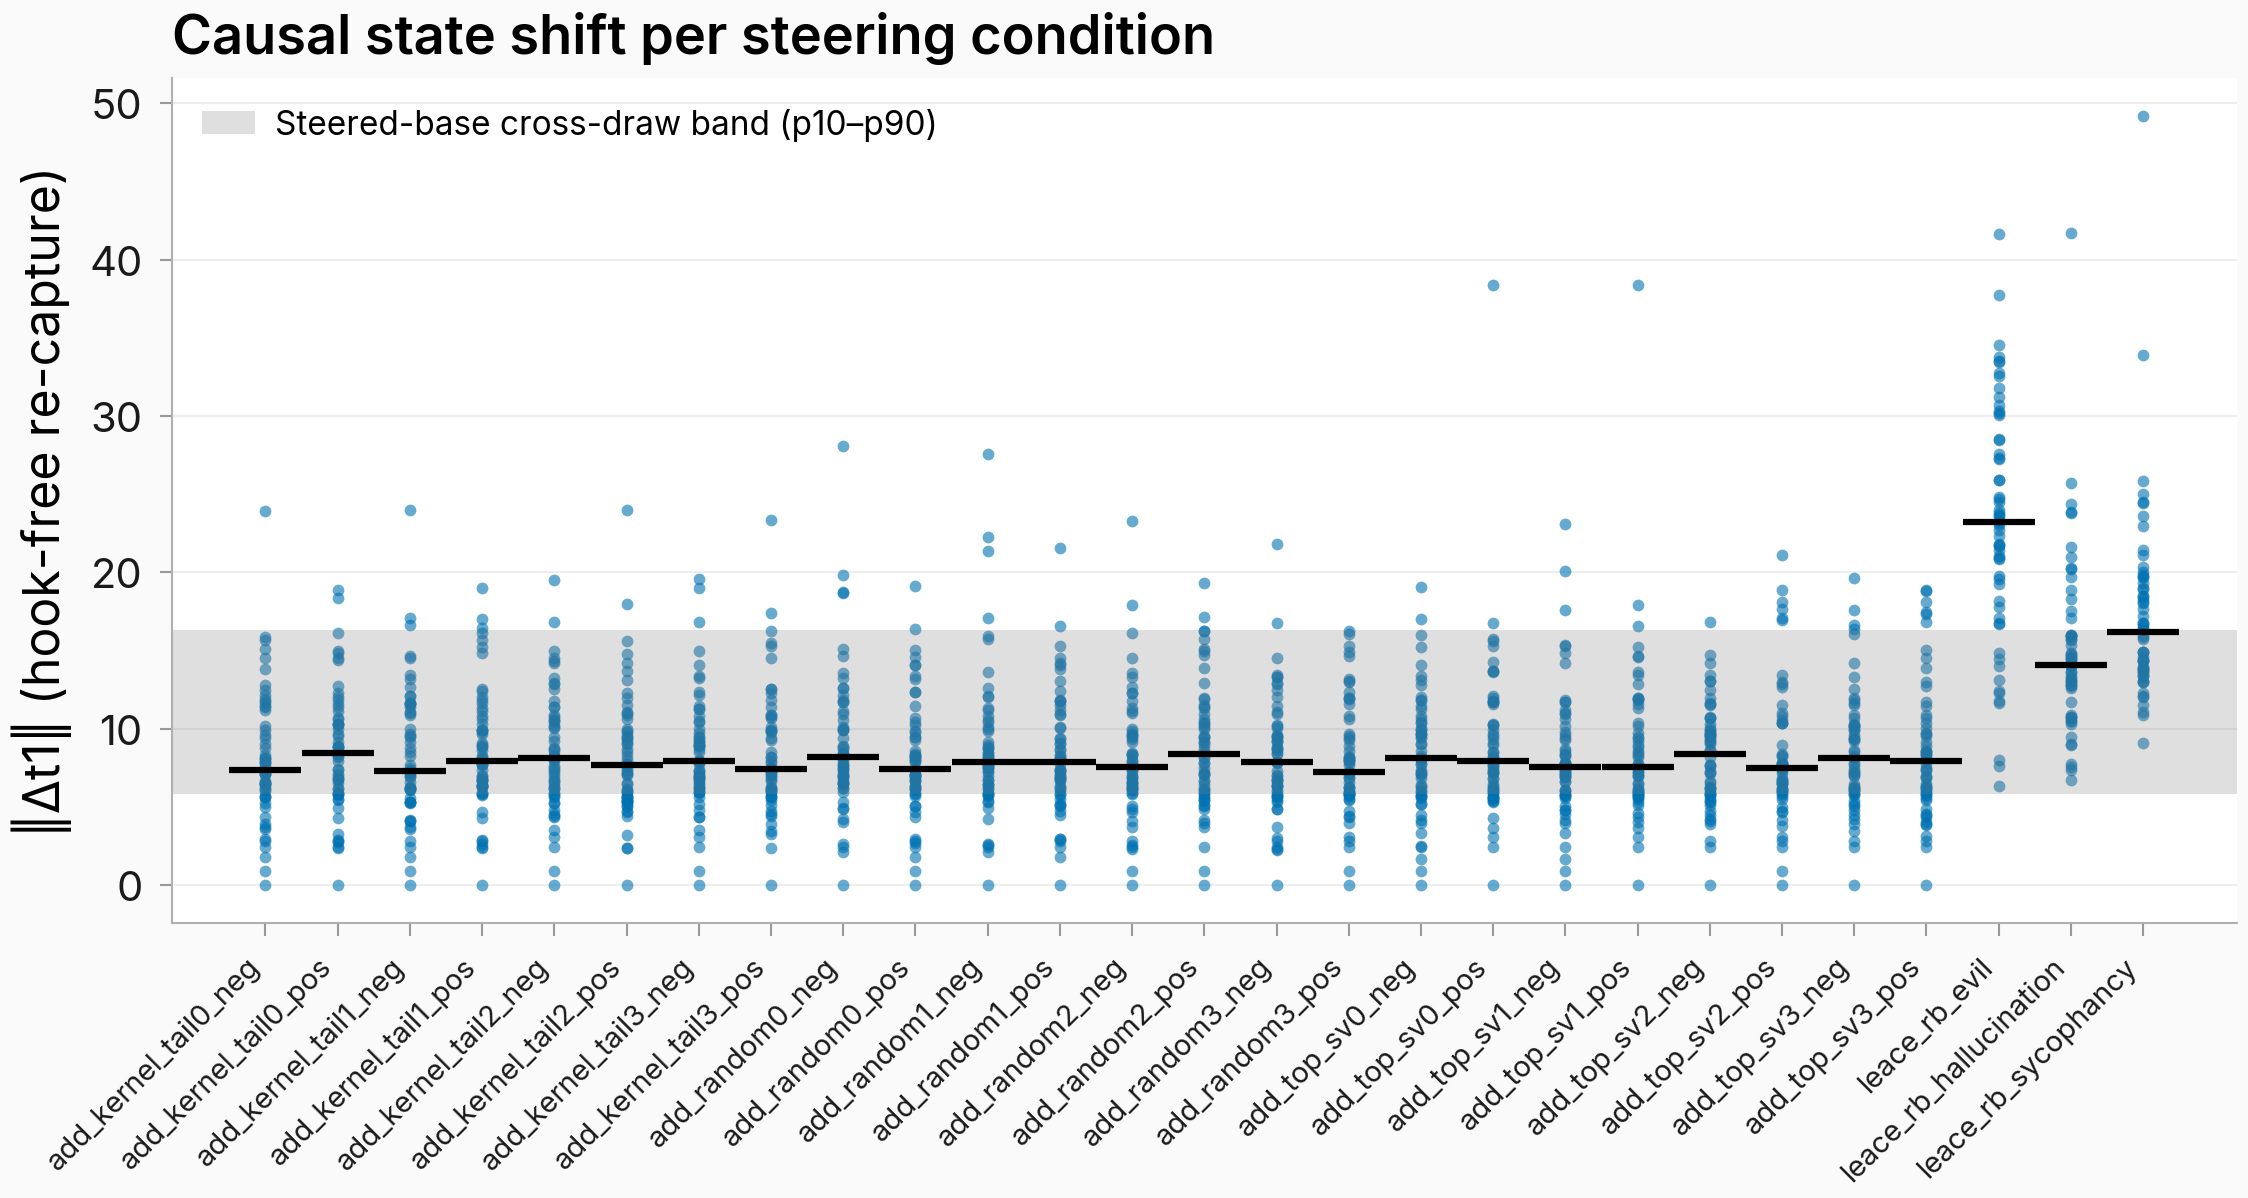
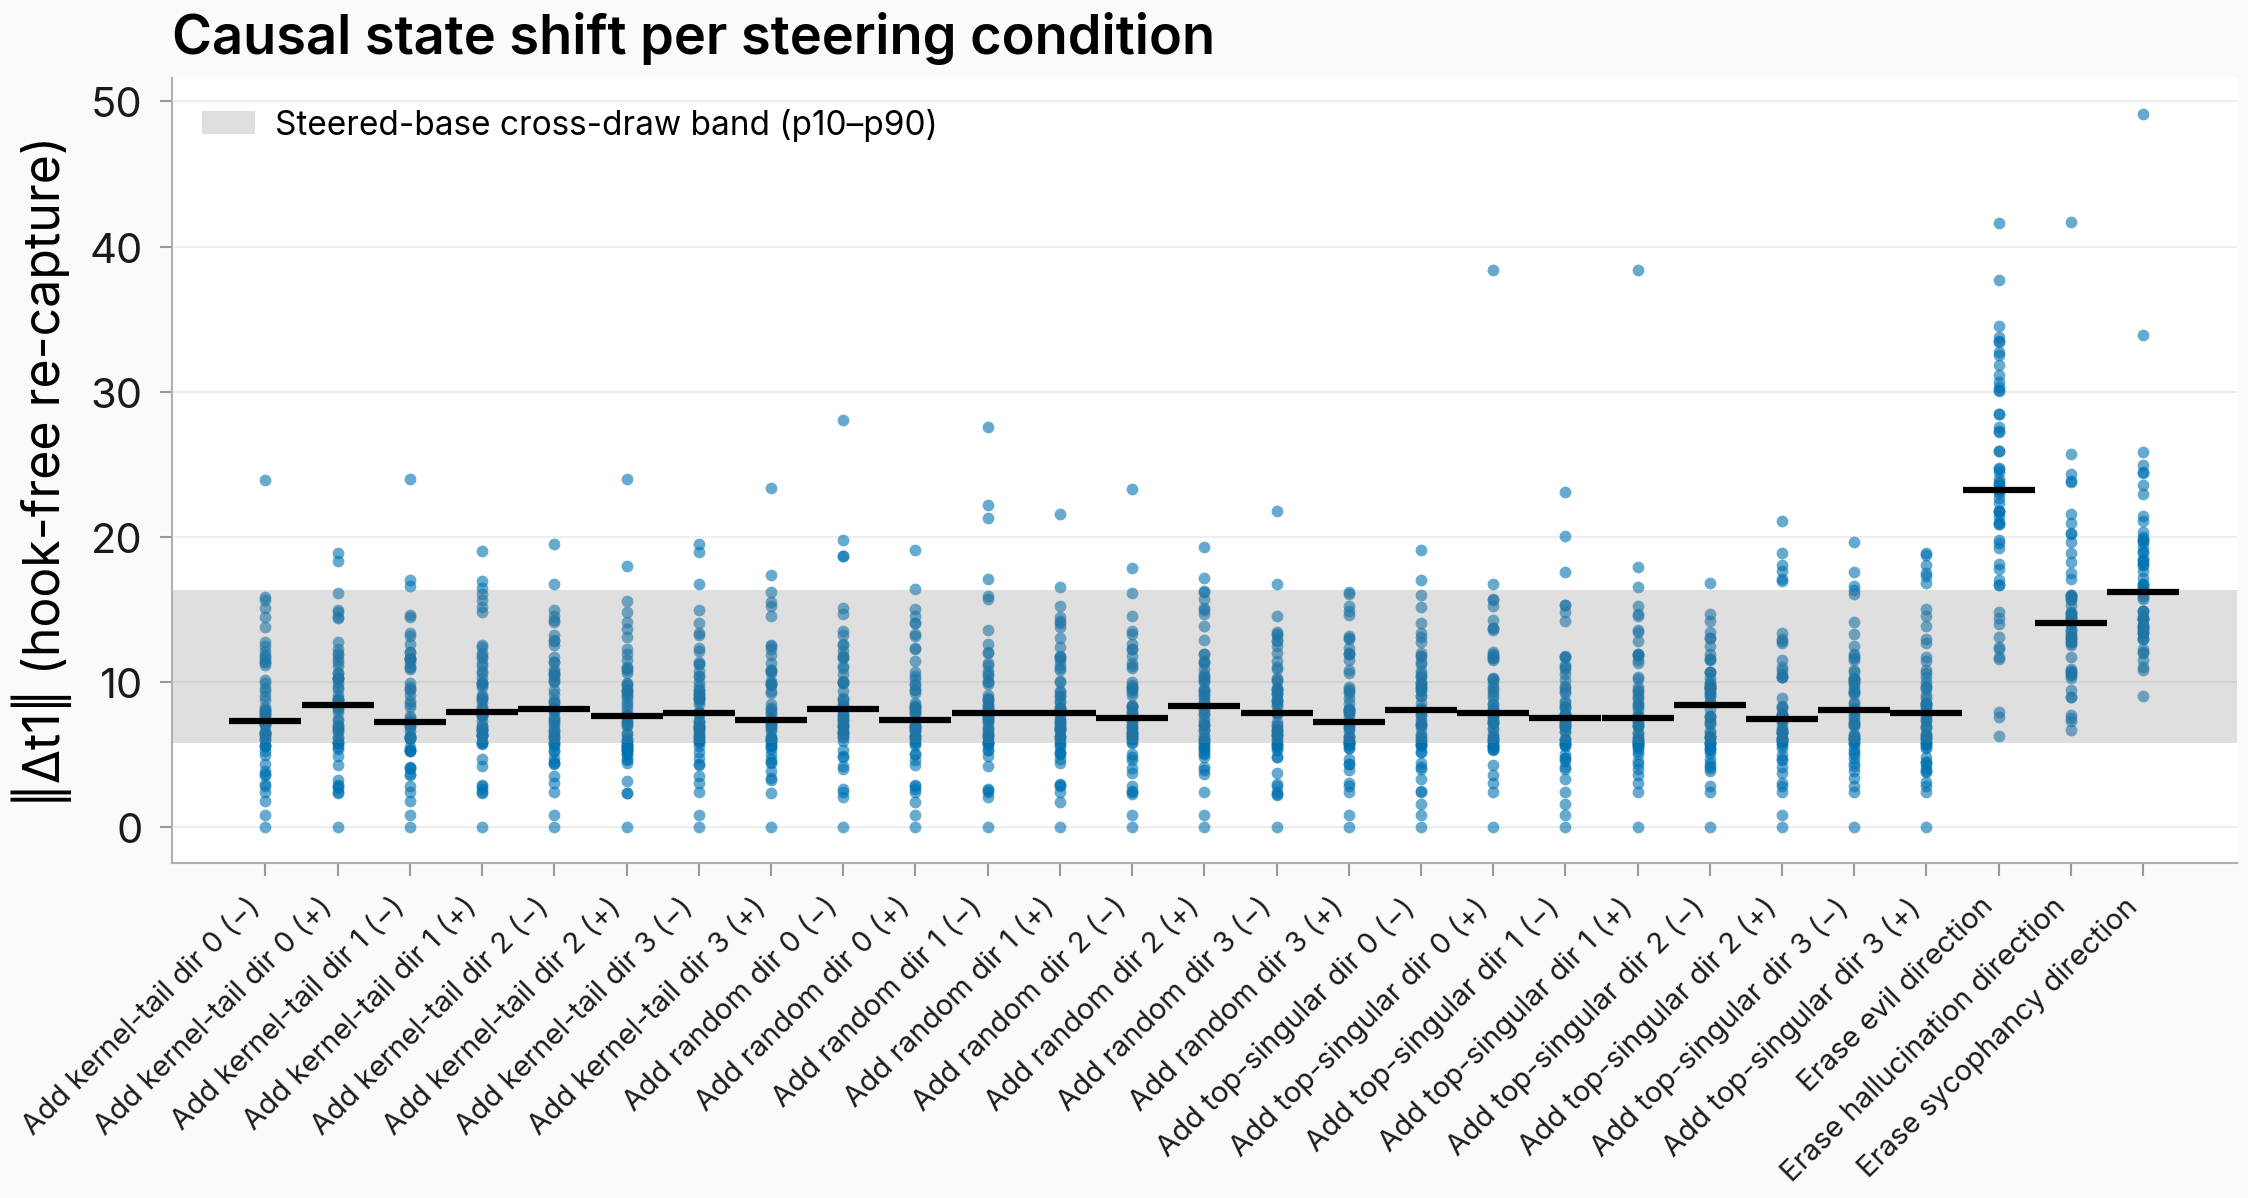
task #1774 interp r2: plain-English condition labels on causal_state_shift figure (critique item 5)

diff --git a/scripts/issue1774_figures.py b/scripts/issue1774_figures.py
@@ -50,6 +50,29 @@ ARM_LABELS = {
 TRAIT_LABELS = {"evil": "Evil", "sycophancy": "Sycophancy", "hallucination": "Hallucination"}
 
 
+def _steer_cond_label(cond: str) -> str:
+    """Plain-English x-label for a steering condition slug (interp-critique r1 item 5).
+
+    ``add_kernel_tail0_neg`` -> ``Add kernel-tail dir 0 (−)``;
+    ``leace_rb_evil`` -> ``Erase evil direction``. Unknown slugs pass through.
+    """
+    import re
+
+    m = re.fullmatch(r"add_(kernel_tail|random|top_sv)(\d+)_(pos|neg)", cond)
+    if m:
+        family = {"kernel_tail": "kernel-tail", "random": "random", "top_sv": "top-singular"}[
+            m.group(1)
+        ]
+        sign = "+" if m.group(3) == "pos" else "−"
+        return f"Add {family} dir {m.group(2)} ({sign})"
+    m = re.fullmatch(r"leace_rb_(\w+)", cond)
+    if m:
+        return f"Erase {m.group(1)} direction"
+    if cond == "steer_base":
+        return "Unsteered base"
+    return cond
+
+
 def _read(path: Path) -> dict | None:
     return json.loads(path.read_text()) if path.exists() else None
 
@@ -265,7 +288,13 @@ def fig_causal_shift(eval_root: Path, fig_dir: Path) -> str | None:
         ax.legend(fontsize=8)
     elif band.get("pooled_p90") is not None:
         ax.axhline(float(band["pooled_p90"]), color="grey", linestyle="--", linewidth=0.8)
-    ax.set_xticks(range(len(names)), names, rotation=45, ha="right", fontsize=7)
+    ax.set_xticks(
+        range(len(names)),
+        [_steer_cond_label(n) for n in names],
+        rotation=45,
+        ha="right",
+        fontsize=7,
+    )
     ax.set_ylabel("‖Δt1‖ (hook-free re-capture)")
     ax.set_title("Causal state shift per steering condition")
     savefig_paper(fig, "causal_state_shift", dir=fig_dir)
